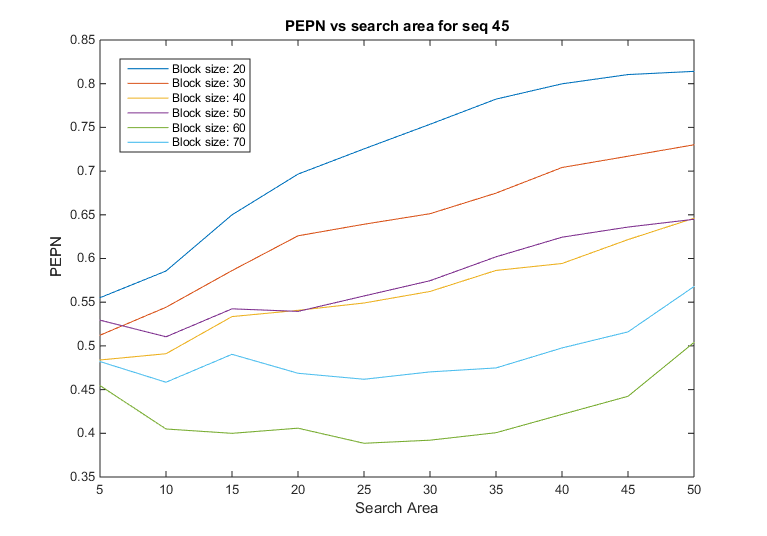
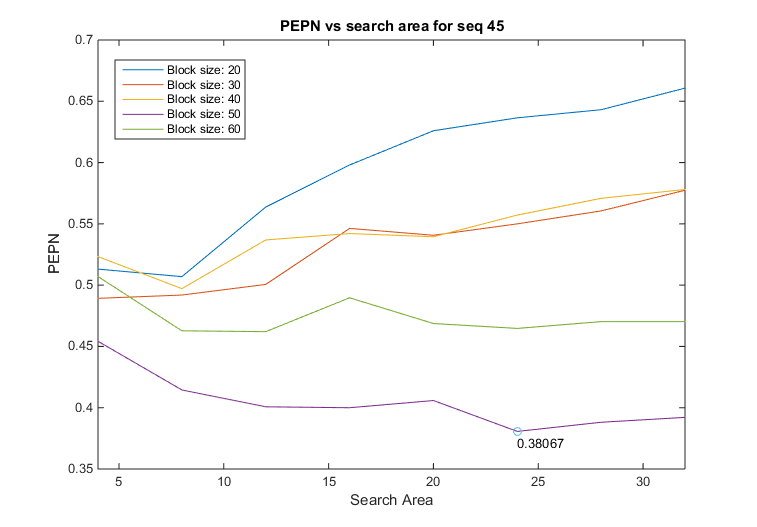
touches

diff --git a/week4/grid_search.m b/week4/grid_search.m
@@ -1,3 +1,17 @@
+%This function develops a grid search through block size and search area parameters
+%to obtain the best optical flow calculation performance with this naive
+%approach.
+%Input parameters are:
+%   'seq_id'  =   the sequence which will be tested, between KITTI's
+%                 dataset sequences 45 and 157.
+%   
+%   'iter_bs' =   amount of block sizes to test.
+%   'iter_sa' =   amount of search area sizes to test.
+%   NOTE: block sizes are tested starting from 20 pixels and jumping by 10,
+%   in the case of search area, it starts at 2, and doubles each iteration.
+%   It's needed to update the desired block sizes in the 'legend' item from
+%   the graph in order to keep consistency with the desired output.
+%%%%%%%%%%%%%%%%%%%%%%%%%%%%%%%%%%%%%%%%%%%%%%%%%%%%%%%%%%%%%%%%%%%%%%%%%%%
 function grid_search
 
 addpath('../datasets');
@@ -5,9 +19,9 @@ addpath('../datasets/KITTI_devkit');
 addpath('../utils');
 addpath('../week1');
 %Choose sequence:
-seq_id = 157;
-iter_bs = 6;
-iter_sa = 10;
+seq_id = 45;
+iter_bs = 5;
+iter_sa = 15;
 %Initialize variables
 frame_size = min(size(imread('../datasets/KITTI_devkit/data_stereo_flow/training/image_0/000045_10.png')));
 block_size = zeros(1,iter_bs); 
@@ -16,21 +30,14 @@ msen = zeros(iter_bs,iter_sa);
 pepn = zeros(iter_bs,iter_sa);
 
 for i=1:iter_bs
-    block_size(i) = i*10;
+    block_size(i) = 20+i*10;
     for n=1:iter_sa
         search_area(n) = n*2;
         [msen(i,n), pepn(i,n)]= task1_1(seq_id, block_size(i), search_area(n));
     end
 end
 
-%parameters = [block_size; search_area];
-%scores_conj = msen .* pepn;
-
-% if sum(pepn == min(min(pepn)))>1
-%     [index_minima_i,index_minima_j] = find(pepn == min(min(pepn)),'first');
-% else
-    [index_minima_i,index_minima_j] = find(pepn == min(min(pepn)));
-% end 
+[index_minima_i,index_minima_j] = find(pepn == min(min(pepn)));
 
 best_case_bs = block_size(index_minima_i);
 best_case_sa = search_area(index_minima_j);
@@ -40,14 +47,19 @@ fprintf('Sequence\t\tBlock Size\t\tSearch Area\t\tMSEN\t\tPEPN\n');
 fprintf('--------------------------------------------------\n');
 fprintf(['Seq ',num2str(seq_id),'\tBest Block size:\t', num2str(best_case_bs),'\tBest Search area:\t', num2str(best_case_sa),'\tMSEN:\t', num2str(msen(index_minima_i,index_minima_j)), '\tPEPN:\t', num2str(pepn(index_minima_i,index_minima_j)*100),'\n']);
 
+%SAVE DATA
 filename = strcat('seq_',num2str(seq_id),'_results.mat');
 save(filename,'msen','pepn' );
+
 %GRAPH SWEEP
 figure()
 plot(search_area, pepn);
 title(strcat({'PEPN vs search area for seq '},num2str(seq_id)));
 xlabel('Search Area');
 ylabel('PEPN');
-legend('Block size: 10','Block size: 20','Block size: 30','Block size: 40', 'Block size: 50','Block size: 60');
+legend('Block size: 30','Block size: 40','Block size: 50', 'Block size: 60','Block size: 70');
+hold on;
+plot(search_area(index_minima_j),pepn(index_minima_i,index_minima_j),'o');
+text(search_area(index_minima_j),(pepn(index_minima_i,index_minima_j)-0.01),num2str(pepn(index_minima_i,index_minima_j)),'HorizontalAlignment','left');
 
 end
